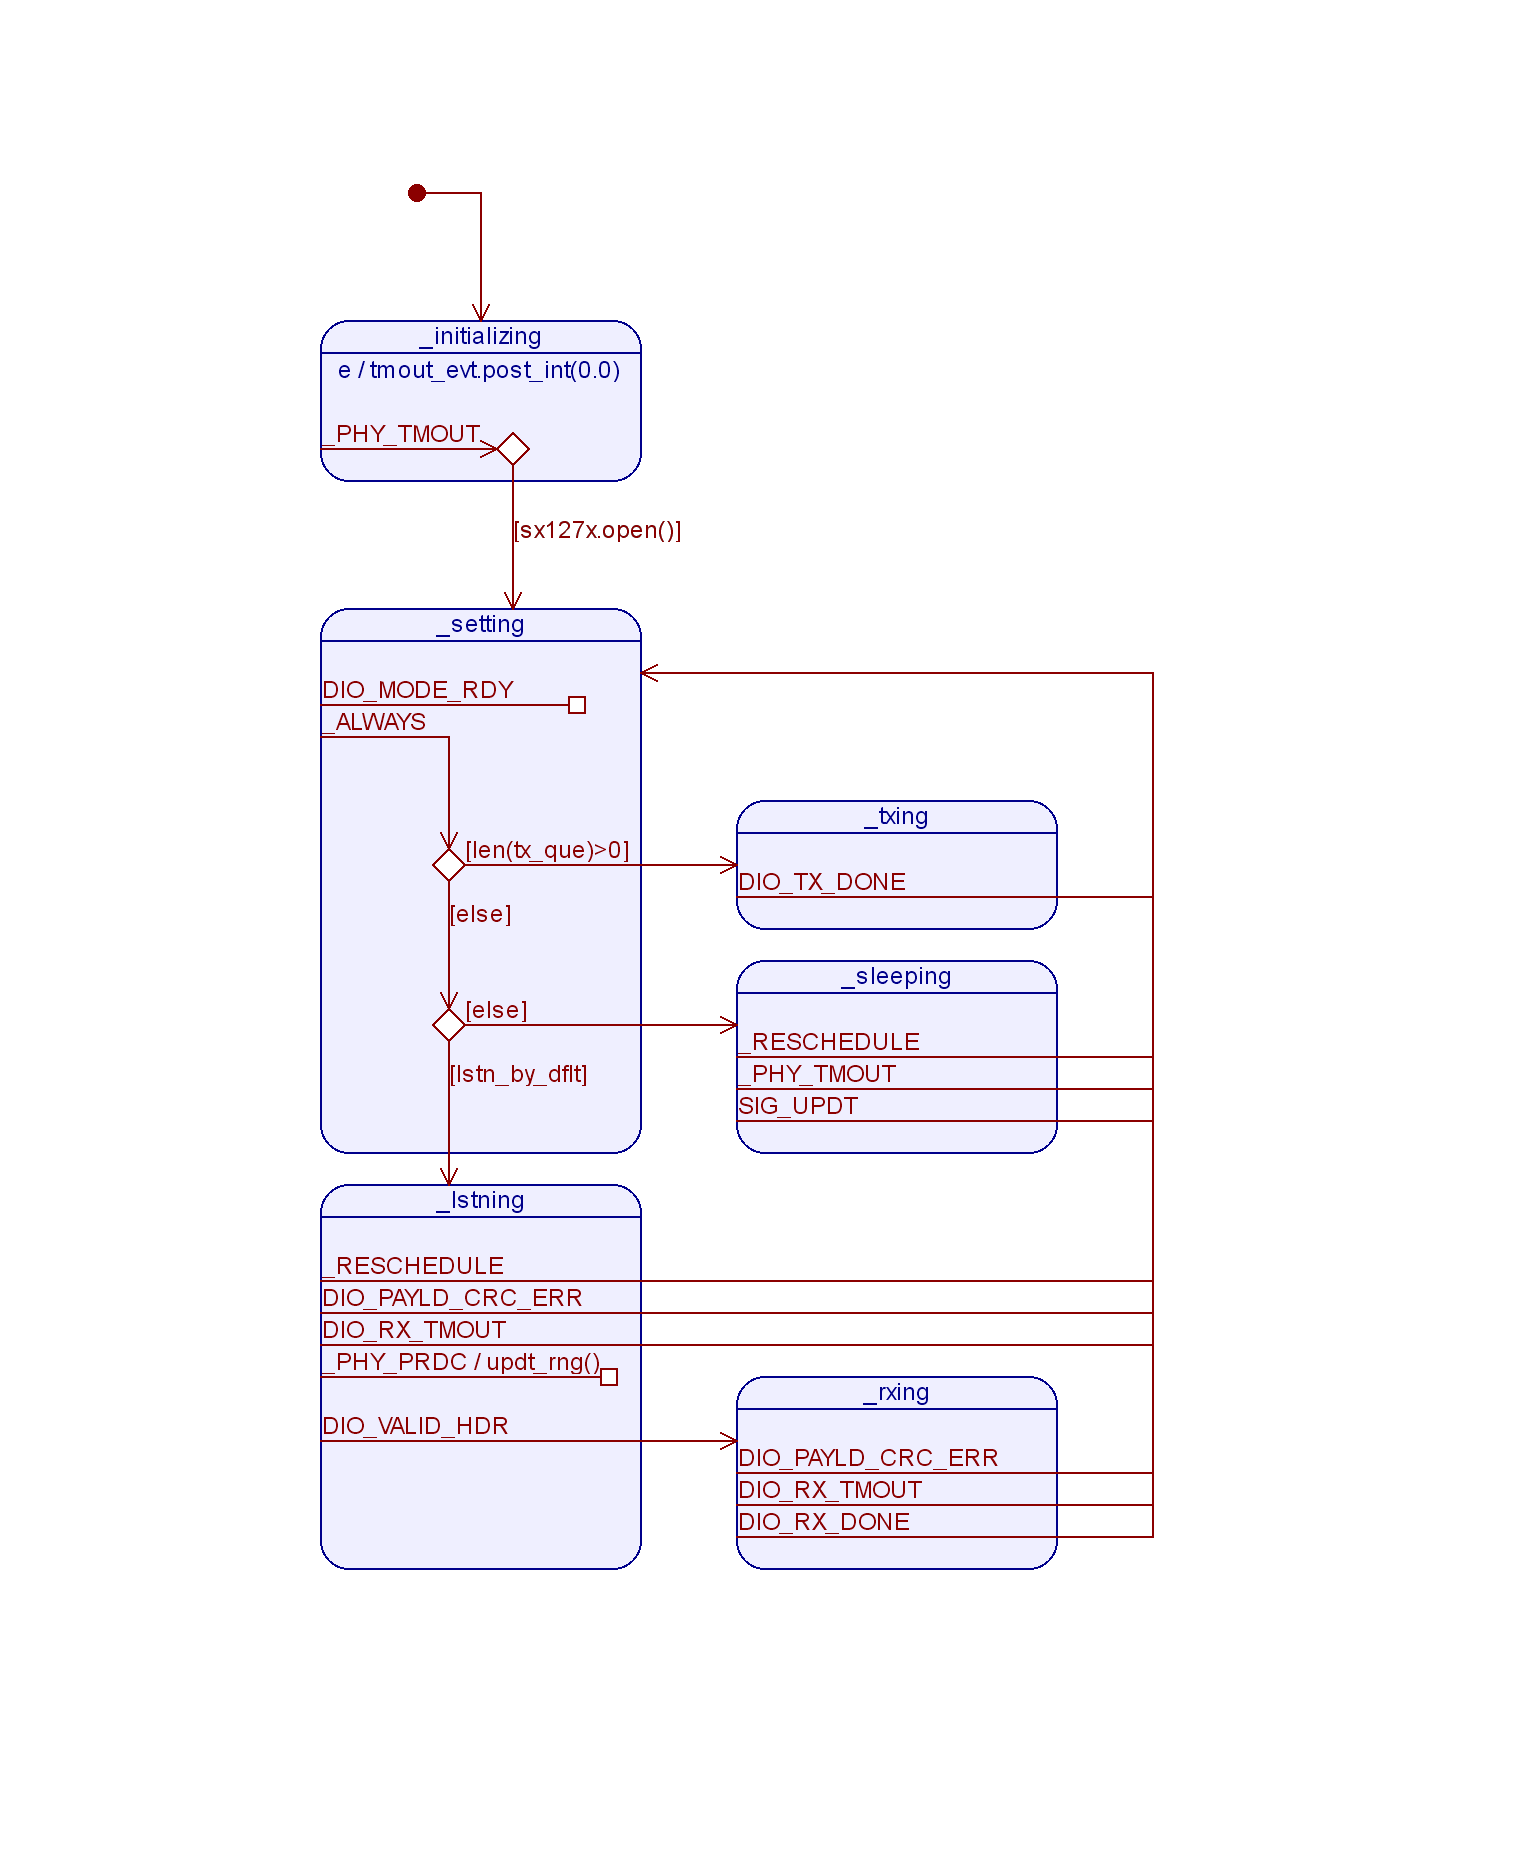
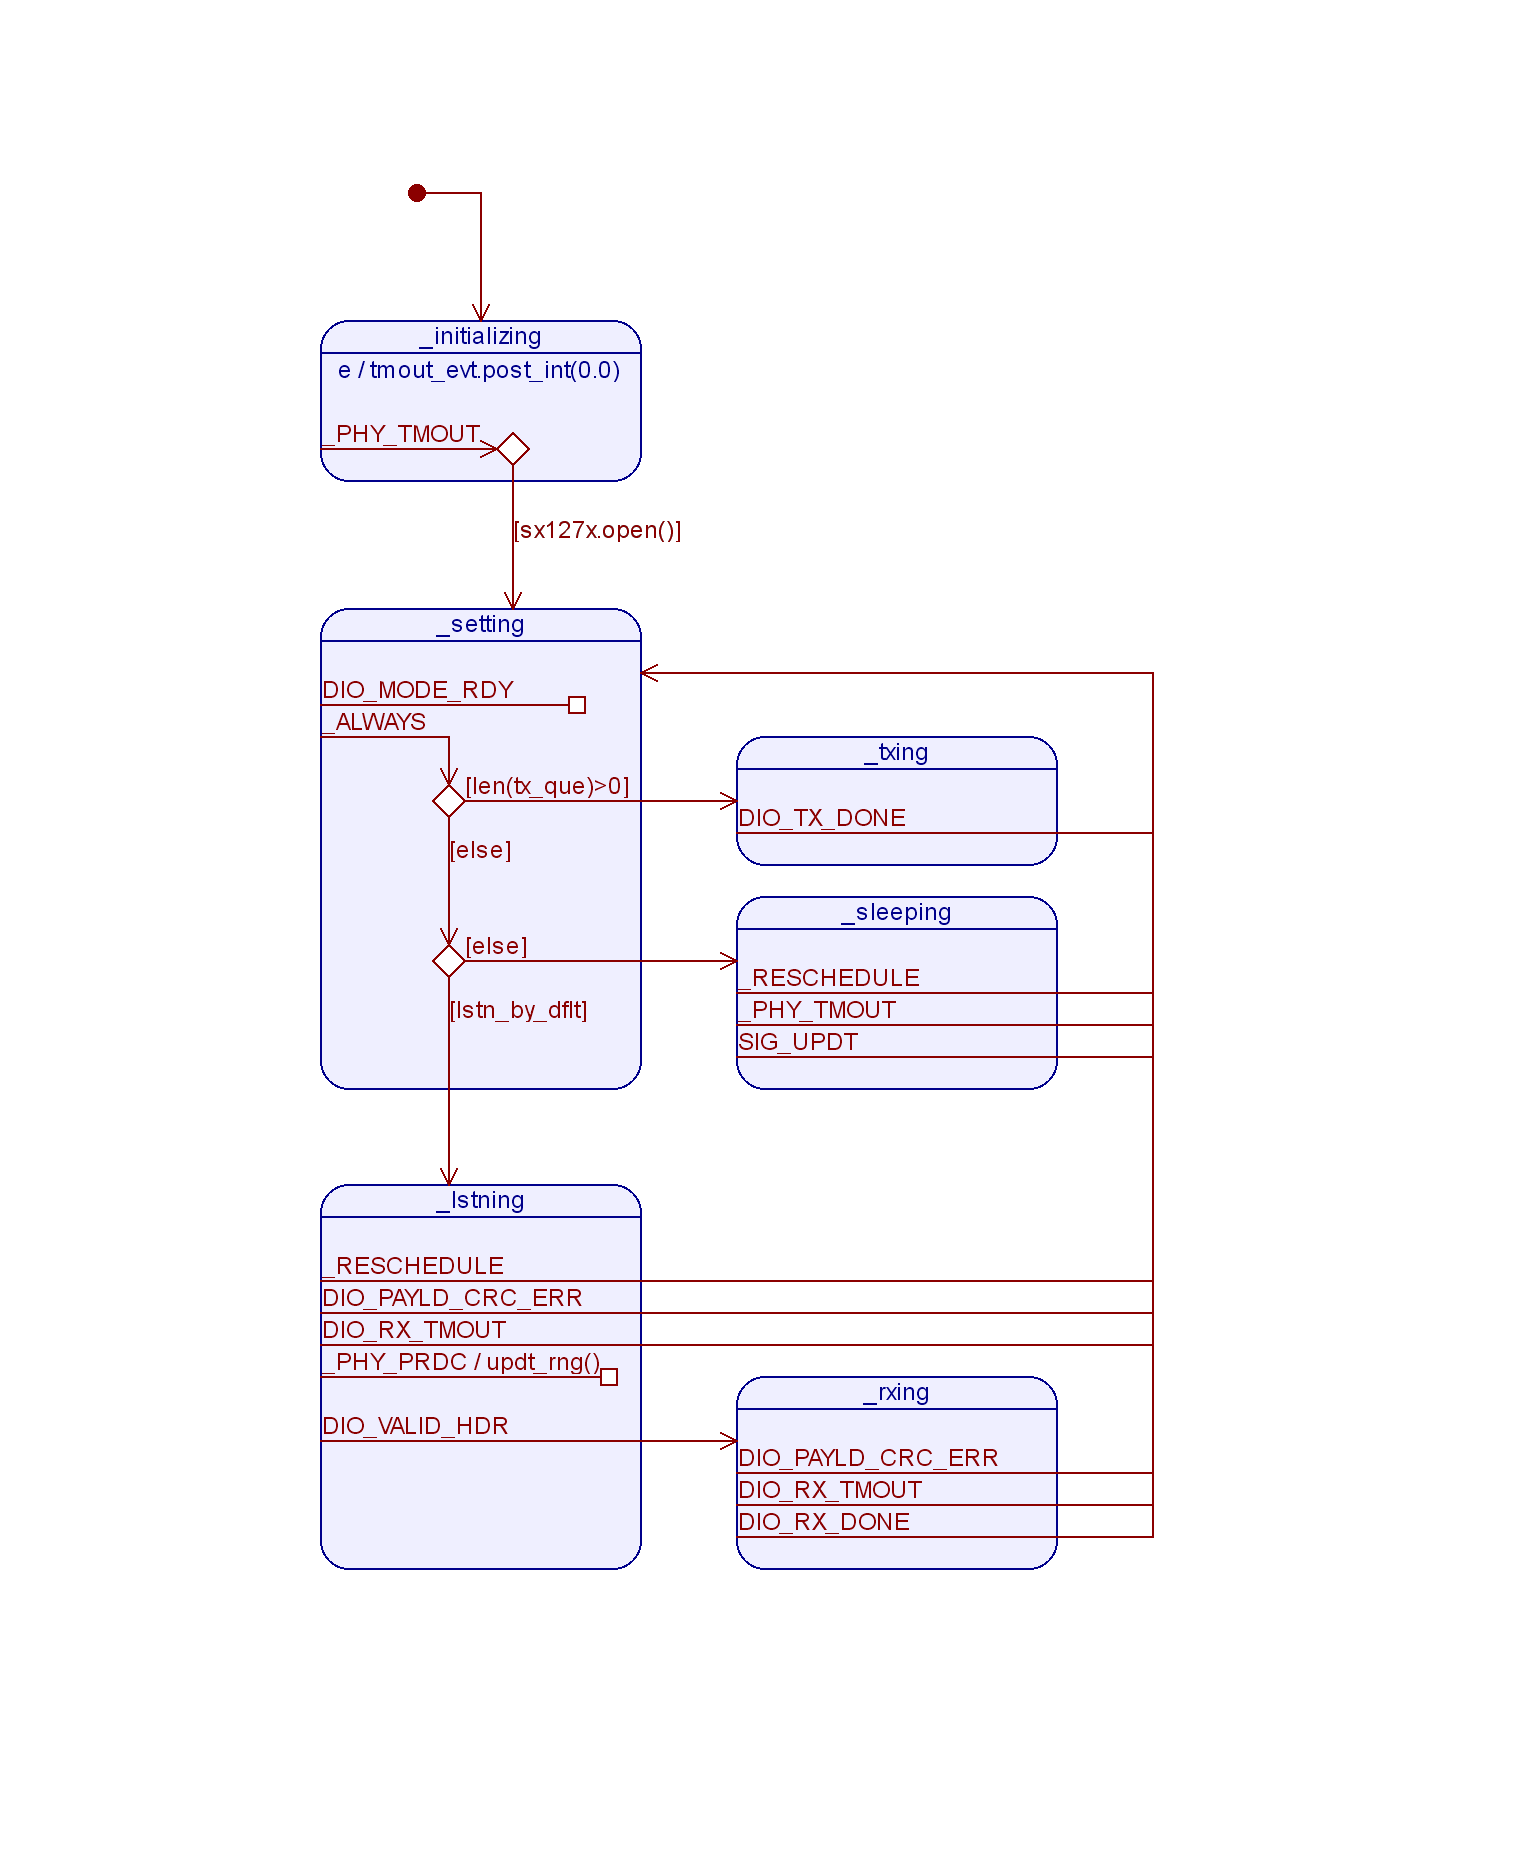
Updated README
Converted to restructured text.
Described the state machine.
Updated the diagram.

diff --git a/phy_sx127x/phy_sx127x_ahsm.py b/phy_sx127x/phy_sx127x_ahsm.py
@@ -13,8 +13,8 @@ from . import phy_sx127x
 
 
 class PhySX127xAhsm(farc.Ahsm):
-    """Physical Layer (PHY) state machine
-    for the Semtech SX127x family of radio modems.
+    """The PHY layer state machine that automates the behavior
+    of the Semtech SX127x family of radio transceivers.
     """
     # Values for enqueue_for_tx()'s tm_to_tx argument.
     ENQ_TX_NOW = 0  # Use normally for "transmit now"

diff --git a/phy_sx127x/phy_sx127x.py b/phy_sx127x/phy_sx127x.py
@@ -19,9 +19,8 @@ from . import phy_cfg
 
 
 class PhySX127x(object):
-    """Physical (PHY) Layer
-    SPI operations, settings management and GPIO interfaces
-    for the Semtec SX127x family of digital radio modems.
+    """The PHY layer SPI operations, settings management and GPIO
+    interfaces for the Semtec SX127x family of digital radio transceivers.
     """
 
     # SX127X Oscillator frequency

diff --git a/README.rst b/README.rst
@@ -1,0 +1,134 @@
+phy_sx127x
+==========
+
+Introduction
+------------
+
+A physical layer (PHY) driver for the `Semtech SX127x family`_  
+of radio data transceivers written in Python3 
+using the `farc`_ state machine framework and meant to run on
+Linux on a Raspberry Pi 3 with a modified `Dragino LoRa GPS Hat`_
+
+A state machine manages the operational behavior and calls into a PHY layer module
+to interact with the radio via the SPI bus and GPIO pins.
+
+This repository is designed to be a git submodule
+so that it may be re-used by multiple projects
+and is not operational on its own.
+
+.. _`Semtech SX127x family`: https://www.semtech.com/products/wireless-rf/lora-transceivers/sx1276
+.. _`farc`: :https://github.com/dwhall/farc
+.. _`Dragino LoRa GPS Hat`: https://wiki.dragino.com/index.php?title=Lora/GPS_HAT
+
+
+Software
+--------
+
+phy_sx127x_ahsm.py
+    Contains PhySX127xAhsm, the PHY layer state machine that automates 
+    the behavior of the Semtech SX127x family of radio transceivers.
+
+phy_sx127x.py
+    Contains PhySX127x, the PHY layer SPI operations, settings management 
+    and GPIO interfaces for the Semtec SX127x family of digital radio transceivers.
+
+
+State Machine
+-------------
+
+After initialization, the behavior of the state machine is to run
+in a loop that applies settings and then performs an action.
+That action is to transmit, listen or sleep.
+The state machine instance maintains a transmit queue
+and a boolean variable that it uses decide what action to take.
+If the transmit queue is empty, the variable determines
+whether to listen or sleep.
+If the queue is not empty, the next item in the queue
+will be transmitted.  After the transmission, operation proceeds 
+to the Setting state and the entire process repeats.
+But the Sleeping and Listening states are slightly different.
+The SM remains in Sleeping or Listening until some event arrives 
+that requires attention (for example, a new item in the transmit 
+queue or a new setting needs to be applied).
+
+One other thing to mention is that the Listening state turns
+on the radio receiver, but only the reception of a valid
+header will cause the transitio to the Rxing state.
+The Rxing state exists solely to keep the radio in receive
+mode until reception is done or there is a timeout.
+We wouldn't want, for example, the arrival of a new item
+in the transmit queue to cause a state transition that
+would turn off the receiver.
+
+There are many more details to the state machine's operation.
+But that is the jist of it.  See the code for details.
+Likewise, the diagram below shows the important aspects of the
+state machine, but it does not completely capture the details.
+
+.. image:: docs/PhySX127xAhsm.png
+
+
+Hardware
+--------
+
+The prototype platform is a `Raspberry Pi 3 Model B`_
+with a `Dragino LoRa/GPS Hat`_ that I bought `on Tindie`_.
+They sent me version 1.3 of the PCB eventhough there are later versions.
+So I had to make a couple fixes and a few additions.  The first and most
+important fix is to connect the radio's SPI Chip Select (CS) signal to the Pi's
+SPI0 CS0.  Without that, you have to programmatically control the radio's CS
+before and after every transaction (that's a PITA that slows hardware and
+software).  It's better to connect the Pi's CS so the Pi's SPI peripheral
+(hardware) can control the CS signal automatically. The additions are direct
+connections from the radio's DIOn pins to the Pi's GPIO and the GPS's Pulse Per
+Second (PPS) signal to the Pi.
+
+Below is a table of the connections between the Raspberry Pi and the
+LoRa radio.  The "Mod" column indicates where I needed to solder
+a wire to make the connection.  If the Mod column is empty that means the
+connection is made by a trace in the Dragino PCB.
+
+======   ========   ===   ===   ===   =========   ===  
+Device   Signal     pin         pin   Pi signal   Mod  
+======   ========   ===   ===   ===   =========   ===  
+LoRa     SPI MISO   10          21    SPI0 MISO        
+LoRa     SPI MOSI   11          19    SPI0 MOSI        
+LoRa     SPI SCLK   12          23    SPI0 SCLK        
+LoRa     SPI SS     13          22    GPIO 25     1    
+LoRa     SPI SS     13          24    SPI0 CS0    W    
+LoRa     DIO0       6           7     GPIO 4           
+LoRa     DIO1       7           16    GPIO 23          
+LoRa     DIO2       8           18    GPIO 24          
+LoRa     DIO3       3           31    GPIO 6      W    
+LoRa     DIO4       4           29    GPIO 5      W    
+LoRa     DIO5       15          15    GPIO 22     W    
+LoRa     RESET      14          11    GPIO 17          
+======   ========   ===   ===   ===   =========   ===  
+
+======   ========================================  
+Mod      Explanation                               
+======   ========================================  
+W        Added a fly wire                          
+1        Either GPIO25 always remains an unusable input, or cut trace to Pi's pin22.  
+======   ========================================  
+
+.. _Raspberry Pi 3 Model B: https://www.raspberrypi.org/products/raspberry-pi-3-model-b/?resellerType=home
+.. _`Dragino LoRa/GPS Hat`: http://wiki.dragino.com/index.php?title=Lora/GPS_HAT
+.. _`on Tindie`: https://www.tindie.com/products/edwin/raspberry-pi-hat-featuring-gps-and-lorar-technolog/
+
+
+Reference
+---------
+
+This project contains design files and documentation that may be opened with
+open source applications.  The following table gives an application that will
+open each type of file:
+
+=========== =============== ==============
+Extension   Application     Download link 
+=========== =============== ==============
+.qm         `QP Modeler`_   `github`_ 
+=========== =============== ==============
+
+.. _github: https://github.com/QuantumLeaps/qm/releases
+.. _QP Modeler: https://www.state-machine.com/qm/
